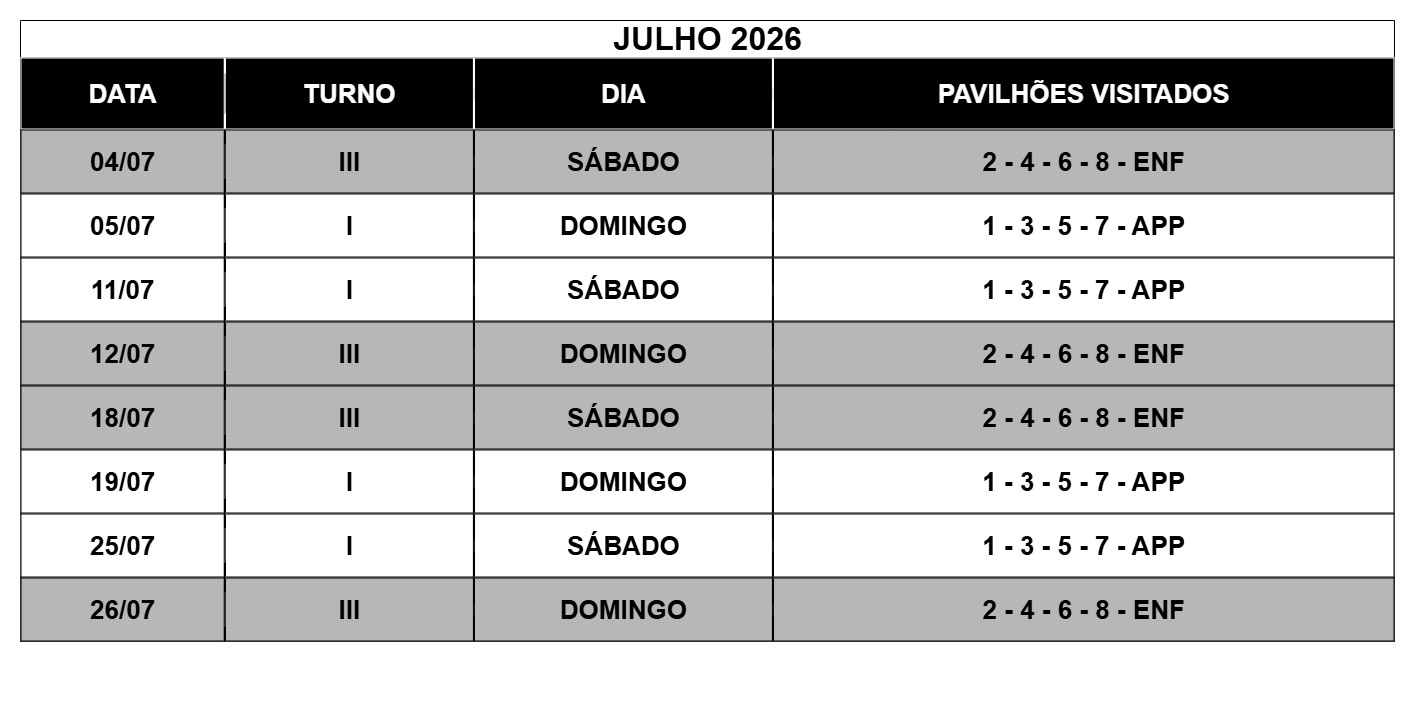
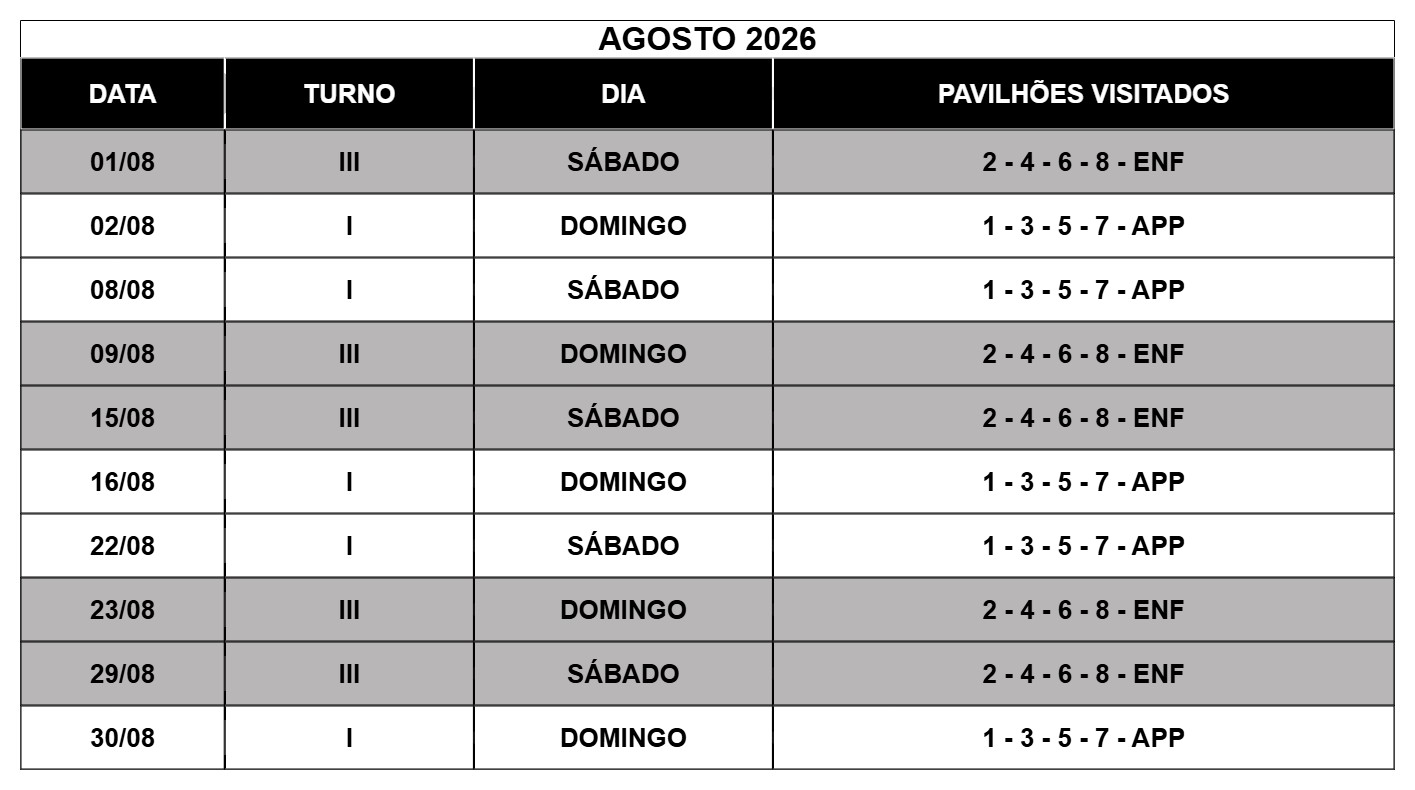
commit calendario agosto de 2026

diff --git a/calendario.html b/calendario.html
@@ -39,7 +39,7 @@
       <section>
         <h2>Calendário de Visitação</h2>
         <img src="imagens/calendario.jpg" alt="Calendário de Visitação">
-        <p style="text-align: center;">Atualizado dia 30/06/2026</p>
+        <p style="text-align: center;">Atualizado dia 30/07/2026</p>
         <!--<p style="color: red; font-weight: bold; text-align: center;">DEVIDO AS ELEIÇÕES, A VISITAÇÃO DO DIA 02/10/2022 TERÁ SEU HORÁRIO ALERADO. DAS 10H ÀS 16H.</p>-->
       </section>
     </main>

diff --git a/index.html b/index.html
@@ -61,7 +61,7 @@
       <section>
         <h2>Últimas Informações</h2>
         <section>
-          <p>Calendário de visitação de julho de 2026</p>
+          <p>Calendário de visitação de agosto de 2026</p>
           <img src="imagens/calendario.jpg" alt="Informações sobre o Calendário">
         </section>
         <!--<section>
